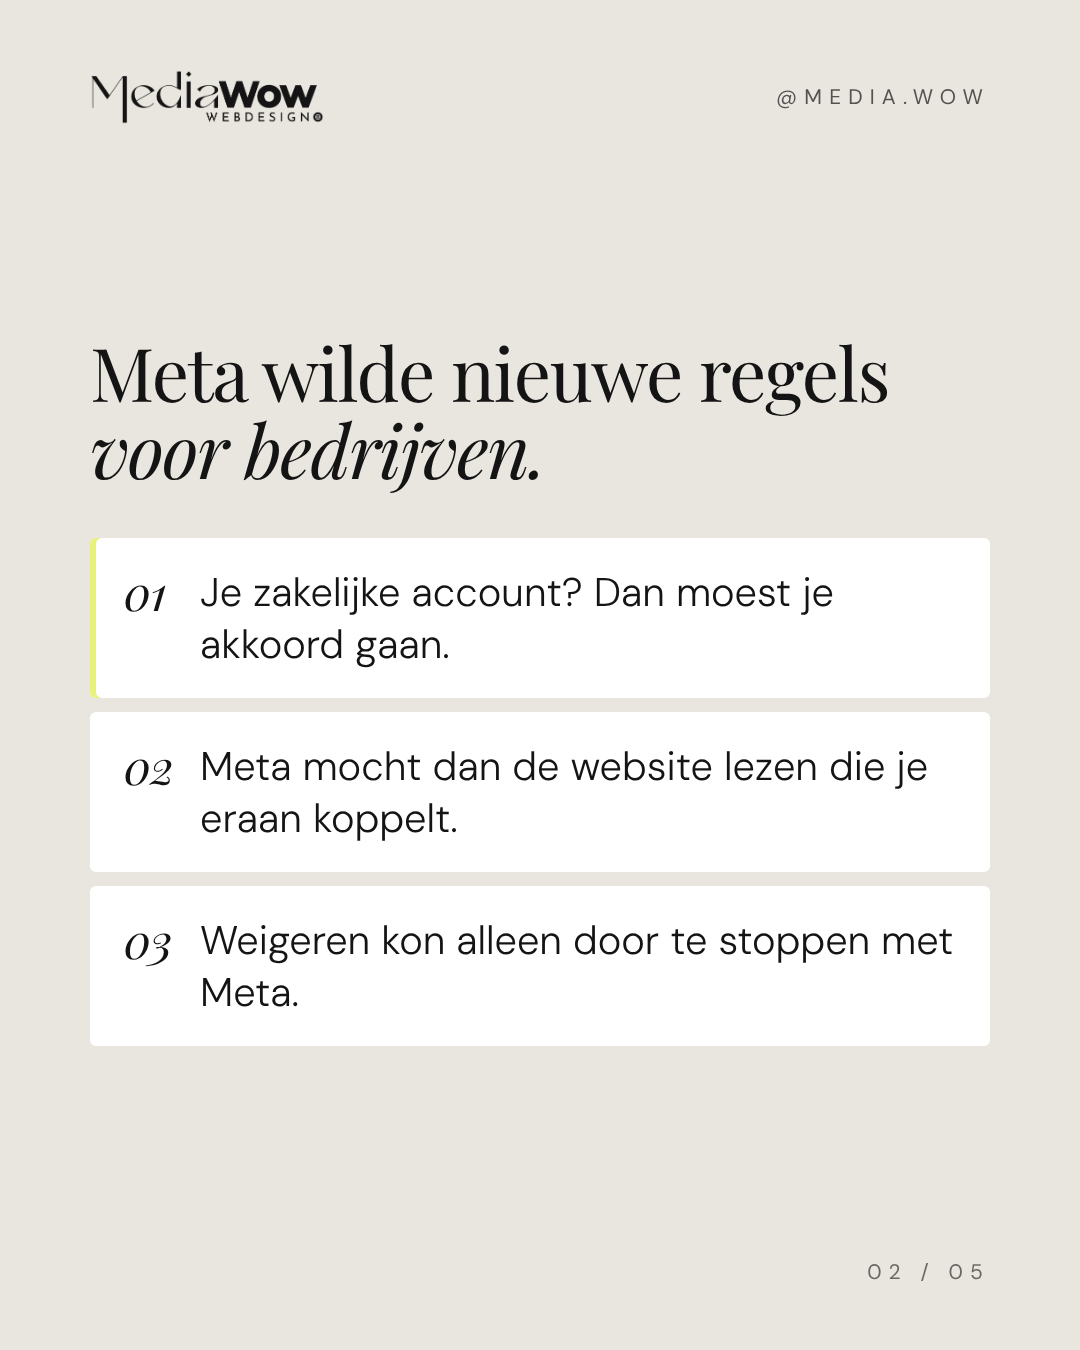
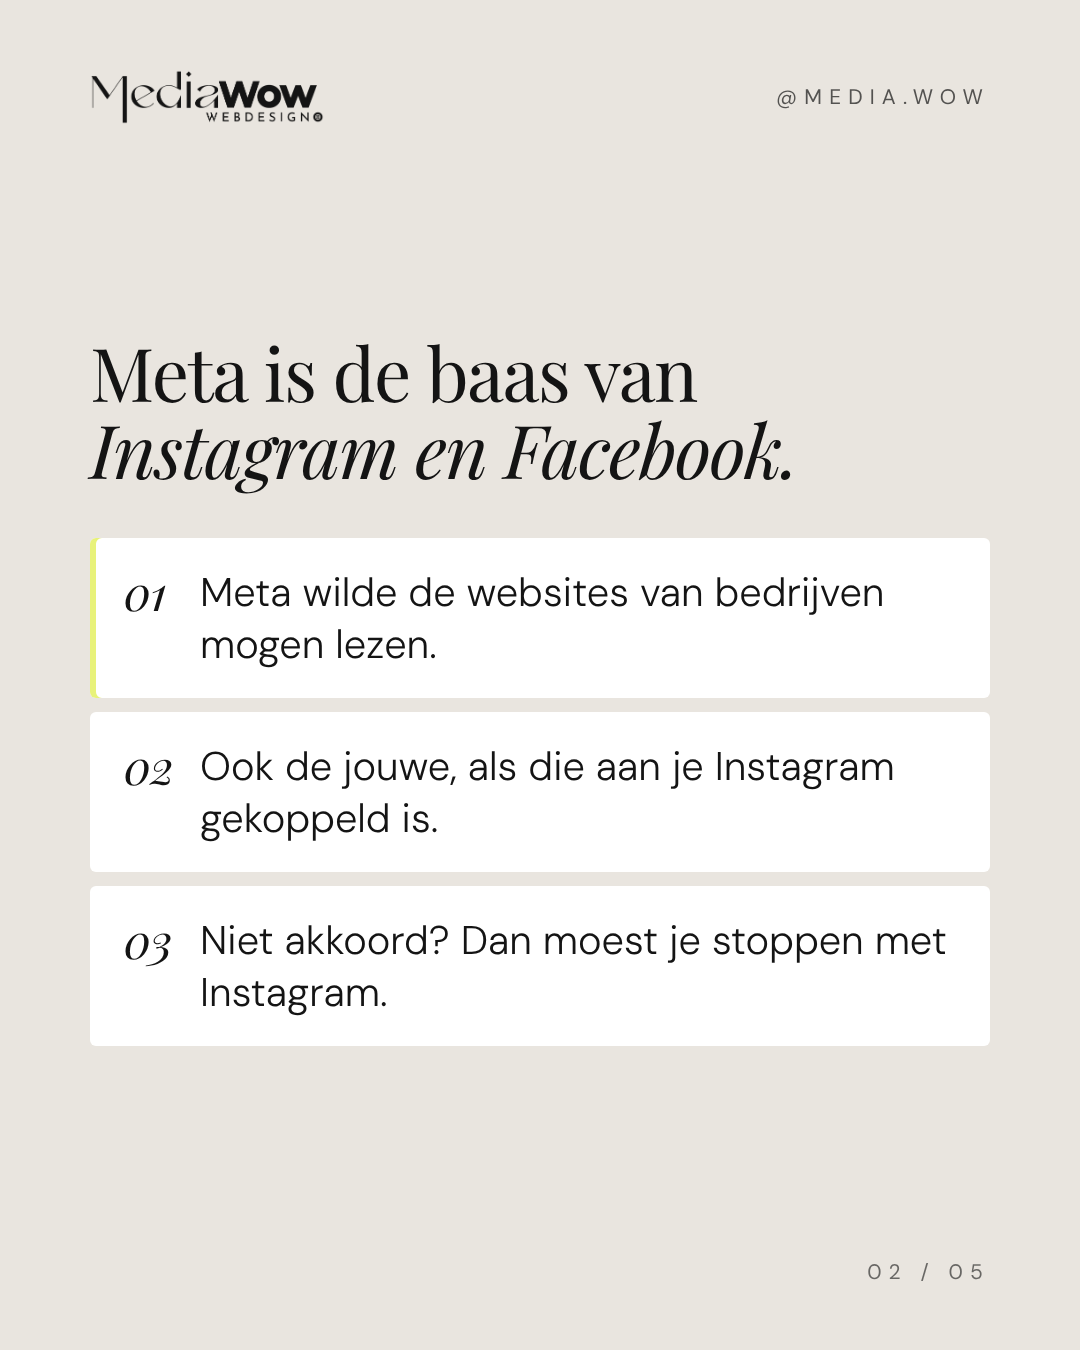
Nieuwspost Meta in gewone taal
Claude-Session: https://claude.ai/code/session_01RBQ5c9Pv2G8CobvSf5vDwJ

diff --git a/instagram/slides-nieuws.js b/instagram/slides-nieuws.js
@@ -1,62 +1,60 @@
-// MediaWow · NIEUWS-format: actueel, kort, met wat jij moet doen.
+// MediaWow · NIEUWS-format: actueel, in gewone taal, met wat jij moet doen.
 module.exports = [
   {
     id: '1-meta-voorwaarden',
     slides: [
       { theme: 'dark', html: `
-        <div class="kicker">Nieuws · Meta</div>
-        <h1 class="hero">Meta wilde je website lezen. <em>Nu even niet.</em></h1>
+        <div class="kicker">Nieuws</div>
+        <h1 class="hero">Instagram wilde in je website kijken. <em>Nu even niet.</em></h1>
         <div class="doc" style="transform:rotate(-2deg)">
-          <div class="doc-h">Nieuwe zakelijke voorwaarden · Meta</div>
-          <div class="doc-r"><span>Geldt voor</span><b>zakelijke Facebook & Instagram</b></div>
-          <div class="doc-r flagged"><span>Meta mag lezen</span><b>jouw gekoppelde website</b></div>
-          <div class="doc-r"><span>Ingang</span><b>20 november</b></div>
-          <div class="doc-stamp">Gepauzeerd</div>
+          <div class="doc-h">Instagram & Facebook</div>
+          <div class="doc-r flagged"><span>Wilde</span><b>meelezen op jouw website</b></div>
+          <div class="doc-r"><span>Vanaf</span><b>20 november</b></div>
+          <div class="doc-stamp">Gaat niet door</div>
         </div>` },
       { theme: 'greige', html: `
-        <div class="kicker">01 — Wat speelde er?</div>
-        <h2>Meta wilde nieuwe regels <em>voor bedrijven.</em></h2>
+        <div class="kicker">01 — Wat is er aan de hand?</div>
+        <h2>Meta is de baas van <em>Instagram en Facebook.</em></h2>
         <div class="list">
-          <div><i>01</i>Je zakelijke account? Dan moest je akkoord gaan.</div>
-          <div><i>02</i>Meta mocht dan de website lezen die je eraan koppelt.</div>
-          <div><i>03</i>Weigeren kon alleen door te stoppen met Meta.</div>
+          <div><i>01</i>Meta wilde de websites van bedrijven mogen lezen.</div>
+          <div><i>02</i>Ook de jouwe, als die aan je Instagram gekoppeld is.</div>
+          <div><i>03</i>Niet akkoord? Dan moest je stoppen met Instagram.</div>
         </div>` },
       { theme: 'dark', html: `
-        <div class="kicker">02 — En nu?</div>
-        <div class="big-stat">5 <em>nov</em></div>
-        <h2>Meta pauzeert de wijziging. <em>De oude regels blijven gelden.</em></h2>
-        <p class="lead">Maar gepauzeerd is niet geschrapt. Een nieuwe datum is er nog niet.</p>` },
+        <div class="kicker">02 — Goed nieuws</div>
+        <h1 class="lg">Na veel kritiek gaat het <em>voorlopig niet door.</em></h1>
+        <p class="lead">Voor jou verandert er nu dus niks. Maar Meta kan er later op terugkomen.</p>` },
       { theme: 'greige', html: `
-        <div class="kicker">03 — Wat jij kunt doen</div>
-        <h2>Zorg dat je <em>niet afhankelijk</em> bent.</h2>
+        <div class="kicker">03 — Wat leer je hiervan?</div>
+        <h2>Instagram is niet van jou. <em>Je website wel.</em></h2>
         <div class="nums">
-          <div><i>1</i><span>Check je <b>robots.txt</b>: daarin bepaal je welke bots je site mogen lezen.</span></div>
-          <div><i>2</i><span>Zet je belangrijkste info op je <b>eigen website</b>, niet alleen op Instagram.</span></div>
-          <div><i>3</i><span>Staat je <b>domeinnaam op jouw naam?</b> Dan blijft je adres van jou.</span></div>
+          <div><i>1</i><span>Zet je <b>prijzen, openingstijden en boekknop</b> op je eigen website.</span></div>
+          <div><i>2</i><span>Zorg dat je website <b>op jouw naam</b> staat.</span></div>
+          <div><i>3</i><span>Instagram is je etalage. <b>Je website is je winkel.</b></span></div>
         </div>` },
       { theme: 'dark', html: `
-        <div class="kicker">Twijfel je?</div>
+        <div class="kicker">Benieuwd hoe jij ervoor staat?</div>
         <h1 class="lg">Ik kijk <em>gratis</em> met je mee.</h1>
-        <p class="lead">Reageer TIPS. Ik check je website, ook je robots.txt, en stuur je 3 tips in je DM.</p>
+        <p class="lead">Reageer TIPS en je krijgt 3 tips voor je website in je DM.</p>
         <span class="btn lime-btn">Reageer: Tips</span>` },
     ],
-    caption: `Meta wilde je website lezen. Nu even niet. 👀
+    caption: `Instagram wilde in je website kijken. Nu even niet. 👀
 
-Meta kondigde nieuwe zakelijke voorwaarden aan. Heb je een zakelijk Facebook- of Instagram-account? Dan mocht Meta daarmee ook de website lezen die je eraan koppelt. Ingangsdatum: 20 november.
+In gewone taal:
+Meta (de baas van Instagram en Facebook) wilde de websites van bedrijven mogen lezen. Ook de jouwe, als die aan je Instagram gekoppeld is. Niet akkoord? Dan moest je stoppen met Instagram.
 
-Na veel kritiek heeft Meta de wijziging op 5 november gepauzeerd. De huidige voorwaarden blijven gelden.
+Na veel kritiek gaat het voorlopig niet door. Voor jou verandert er nu dus niks.
 
-Maar: gepauzeerd is niet geschrapt. Een nieuwe datum is er nog niet.
+Maar het laat wel iets zien: Instagram is niet van jou. Je website wel. 🤍
 
-Wat je nu al kunt doen:
-✔ check je robots.txt (Meta zegt die te respecteren)
-✔ zet je belangrijkste info op je eigen website, niet alleen op social
-✔ zorg dat je domeinnaam op jóuw naam staat
+✔ zet je prijzen, openingstijden en boekknop op je eigen website
+✔ zorg dat je website op jouw naam staat
+✔ Instagram is je etalage, je website is je winkel
 
-Twijfel je? 👇 Reageer TIPS en ik check gratis je website, ook je robots.txt.
+👇 Reageer TIPS en ik kijk gratis met je mee.
 
-Deel dit met een ondernemer die Instagram gebruikt 🤍
+Ken je een ondernemer die dit moet weten? Stuur het even door 📲
 
-#meta #instagram #privacy #ondernemen #websitetips #mediawow`,
+#instagram #meta #ondernemen #websitetips #mediawow`,
   },
 ];
